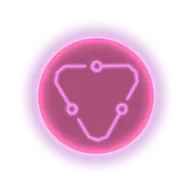
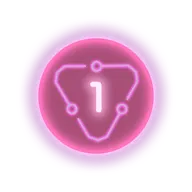
本日作業分

Changed region(s): [[0.4375, 0.375, 0.5938, 0.625]]

diff --git a/js/spod_sim.js b/js/spod_sim.js
@@ -50,6 +50,9 @@ class turn_data {
     }
     addOverDrive(add_od_gauge) {
         this.over_drive_gauge += add_od_gauge;
+        if (over_drive_gauge > 300) {
+            over_drive_gauge = 300;
+        }
     }
 }
 
@@ -210,10 +213,8 @@ function addTurn(turn_data, kb_add_turn) {
     let header_area = $('<div>').addClass("flex");
     let turn_number = $('<div>').text(turn_data.getTurnNumber());
     let enemy = $('<div>').append($('<img>').attr("src", "icon/BtnEventBattleActive.webp").addClass("enemy_icon")).addClass("left");
-    let over_drive = $('<div>').append($('<img>').attr("src", "icon/EffectOverdrive1.webp").addClass("od_icon"))
-                                .append($('<img>').attr("src", "icon/NumberOverdrive1.webp").addClass("od_number"));
-    let over_drive_tmp = $('<div>').append($('<input>').val(turn_data.over_drive_gauge));
-    header_area.addClass("container").append(turn_number).append(enemy).append(over_drive_tmp);
+    let over_drive = createOverDriveGauge(turn_data.over_drive_gauge);
+    header_area.addClass("container").append(turn_number).append(enemy).append(over_drive);
     let party_member = $('<div>').addClass("flex");
     let front_area = $('<div>').addClass("flex").addClass("front_area");
     let back_area = $('<div>').addClass("flex").addClass("back_area");
@@ -277,7 +278,18 @@ function addTurn(turn_data, kb_add_turn) {
     addUnitEvent(turn_data.unit_list);
     turn_list.push(turn_data);
 }
-
+// ODゲージ生成
+function createOverDriveGauge(over_drive_gauge) {
+    let over_drive = $('<div>').addClass("flex");
+    let over_drive_text = $('<label>').text(`${over_drive_gauge % 100}%`).addClass("od_text");
+    let over_drive_img = $('<div>').append($('<img>').attr("src", "img/FrameOverdriveGaugeR.webp").addClass("od_icon"));
+    if (over_drive_gauge >= 100) {
+        let gauge = Math.floor(over_drive_gauge / 100);
+        over_drive_img.append($('<img>').attr("src", `img/ButtonOverdrive${gauge}Default.webp`).addClass("od_number"));
+    }
+    over_drive.append(over_drive_text).append(over_drive_img);
+    return over_drive;
+}
 // ユニットイベント
 function addUnitEvent(unit_list) {
     let first_click = null;

diff --git a/css/spod_sim.css b/css/spod_sim.css
@@ -157,14 +157,17 @@ input[type="button"].battle_start {
     height: 48px;
 }
 .od_icon {
-    width: 48px;
+    width: 61px;
     height: 48px;
 }
 .od_number {
-    width: 40px;
-    height: 40px;
-    margin-top: -45px;
-    margin-left: 3px;
+    width: 64px;
+    height: 64px;
+    margin-top: -56px;
+    margin-left: 6px;
+}
+.od_text {
+    padding-top: 11px;
 }
 
 .unit_selected {
